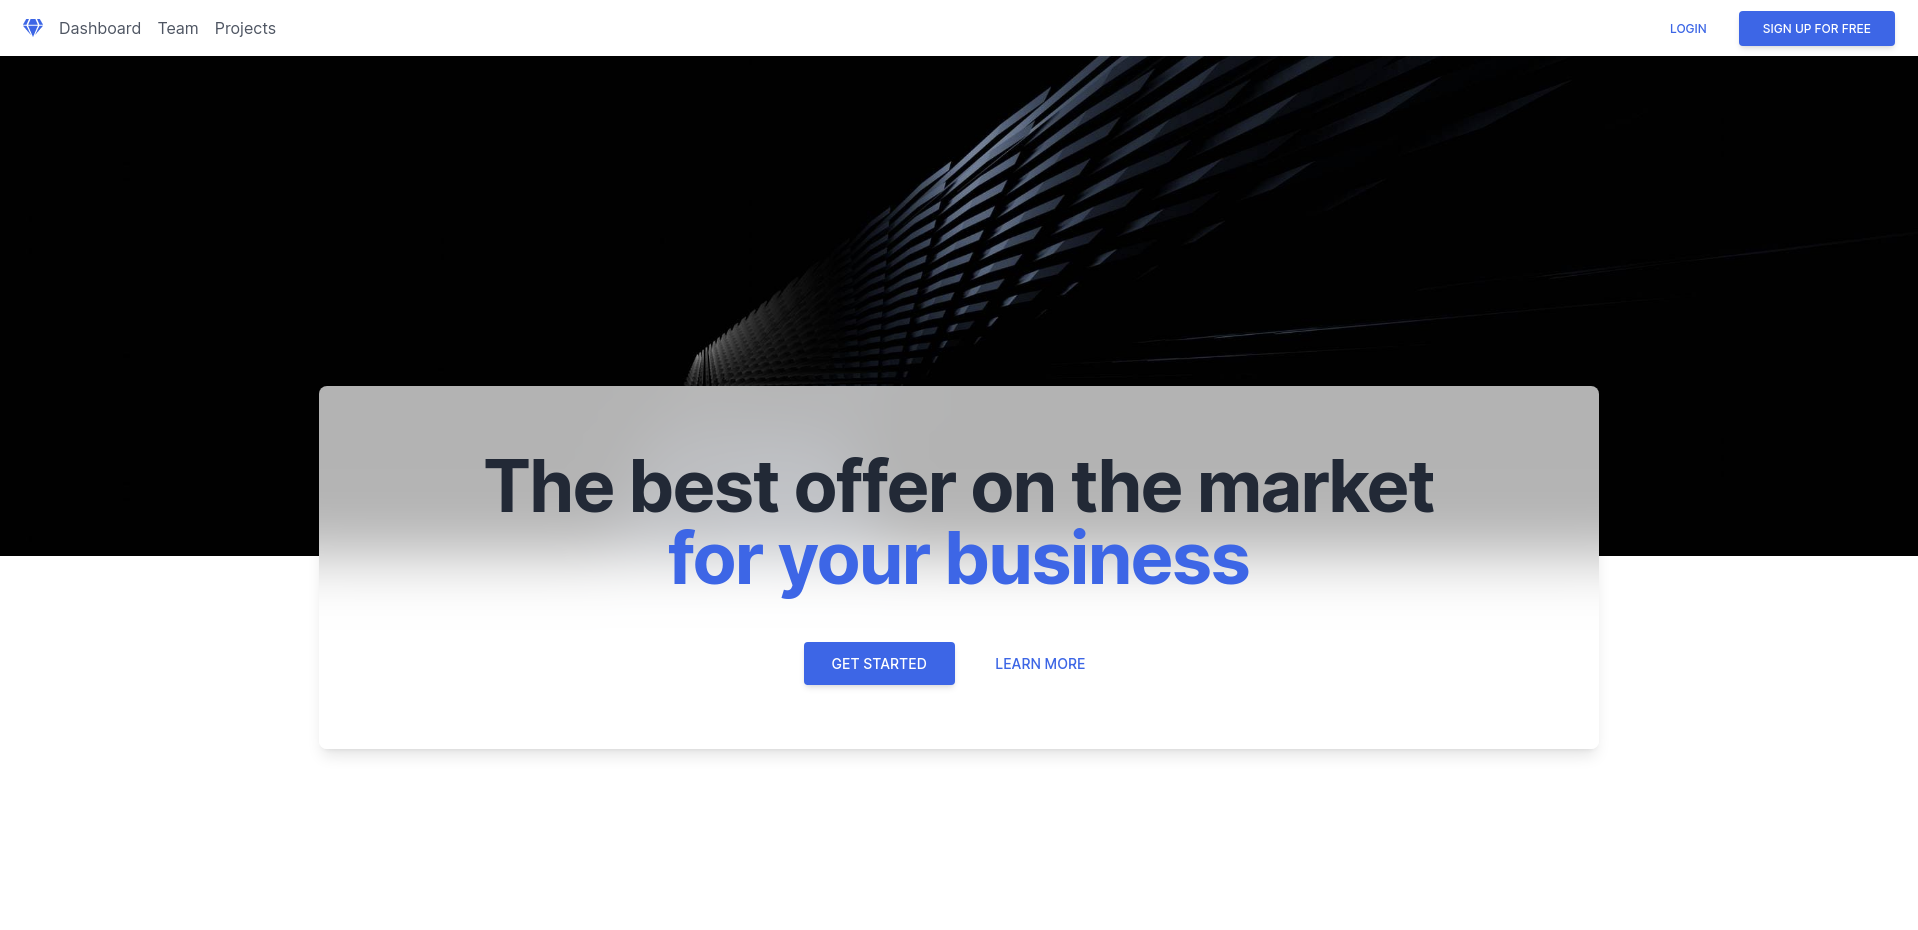
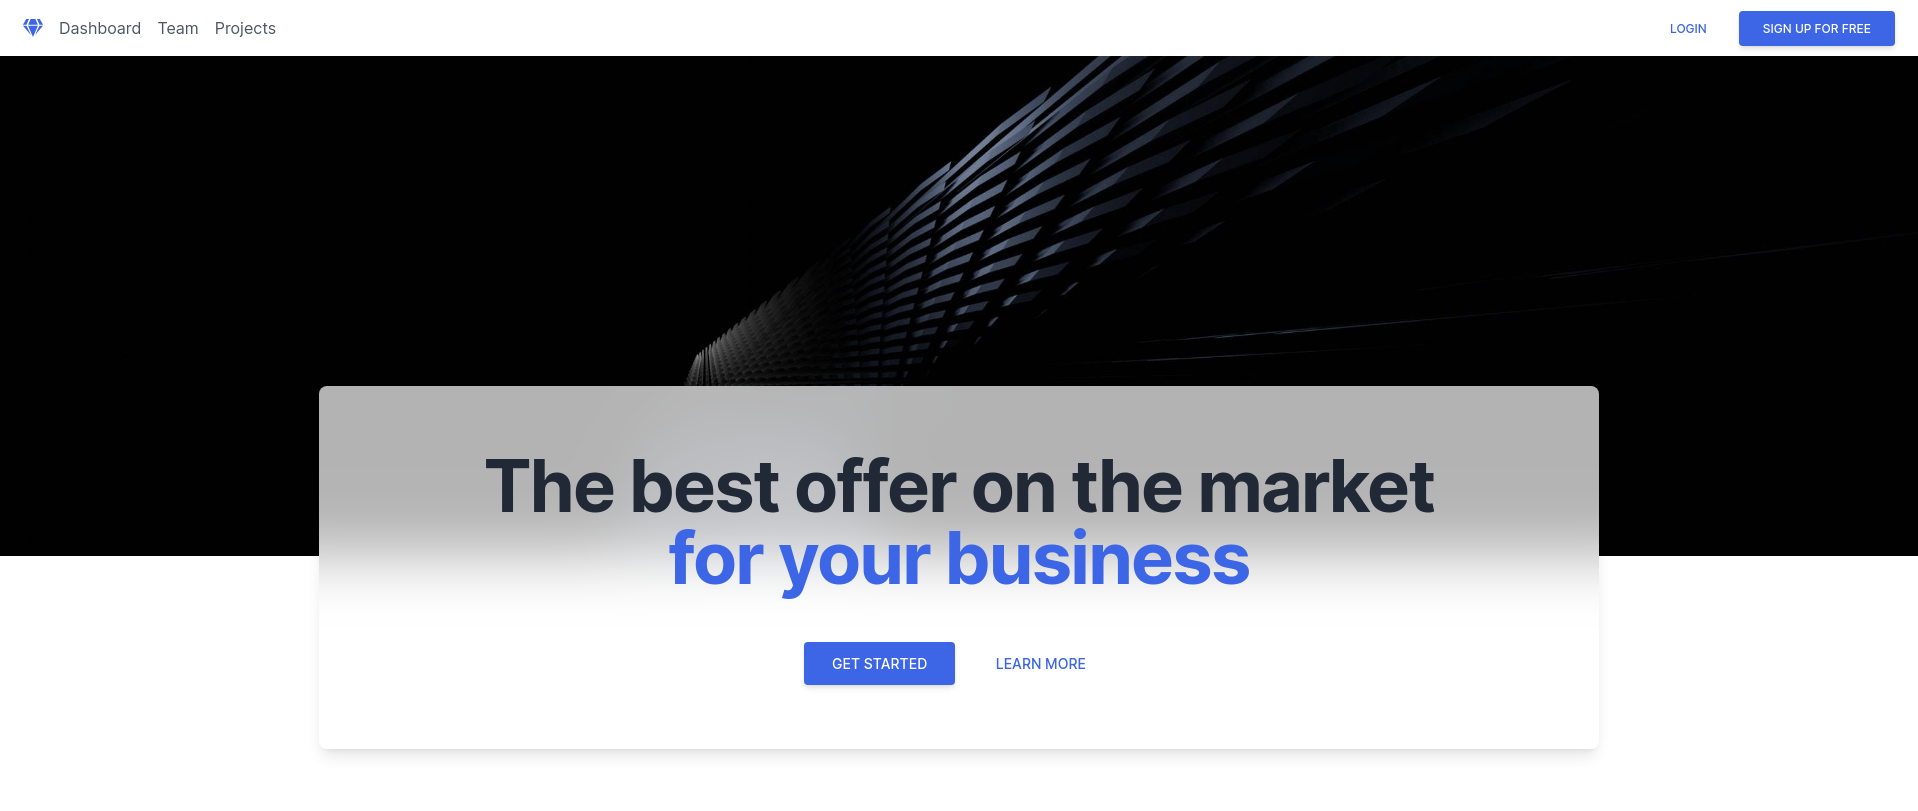
Add fixes to the tw hero dcos pages

Changed region(s): [[0.0, 0.0, 1.0, 0.7398], [0.3999, 0.7707, 0.5845, 0.8631], [0.3999, 0.3083, 0.4307, 0.3391]]

diff --git a/site/content/docs/standard/designblocks/landing-page/index.html b/site/content/docs/standard/designblocks/landing-page/index.html
@@ -1,7 +1,7 @@
 ---
 title: "Landing page blocks"
 date: 2021-04-29T16:00:58+02:00
-draft: "true"
+draft: "false"
 main_title: "Tailwind Landing page blocks"
 subheading: ""
 seo_title: "Tailwind CSS Landing page blocks"
@@ -24,7 +24,7 @@ menu:
       <div
         class="relative overflow-hidden bg-no-repeat bg-cover ripple shadow-lg rounded-lg mb-6 flex items-center bg-white"
         data-mdb-ripple-color="true" data-mdb-ripple-color="light"
-        style="height: 300px; background-position: 50%;"
+        style="height: 290px; background-position: 50%;"
       >
         <img
           src="../hero-sections/assets/img13.png"

diff --git a/demo/sites/db/hero-1.html b/demo/sites/db/hero-1.html
@@ -25,7 +25,7 @@
     </style>
   </head>
 
-  <body>
+  <body class="bg-black">
     <!-- Start your project here-->
     <div>
       <!-- Container for demo purpose -->

diff --git a/demo/sites/db/hero-2.html b/demo/sites/db/hero-2.html
@@ -25,7 +25,7 @@
     </style>
   </head>
 
-  <body>
+  <body class="bg-black">
     <!-- Start your project here-->
     <div>
       <!-- Container for demo purpose -->

diff --git a/demo/sites/db/hero-3.html b/demo/sites/db/hero-3.html
@@ -25,7 +25,7 @@
     </style>
   </head>
 
-  <body>
+  <body class="bg-black">
     <!-- Start your project here-->
     <div>
       <!-- Container for demo purpose -->
